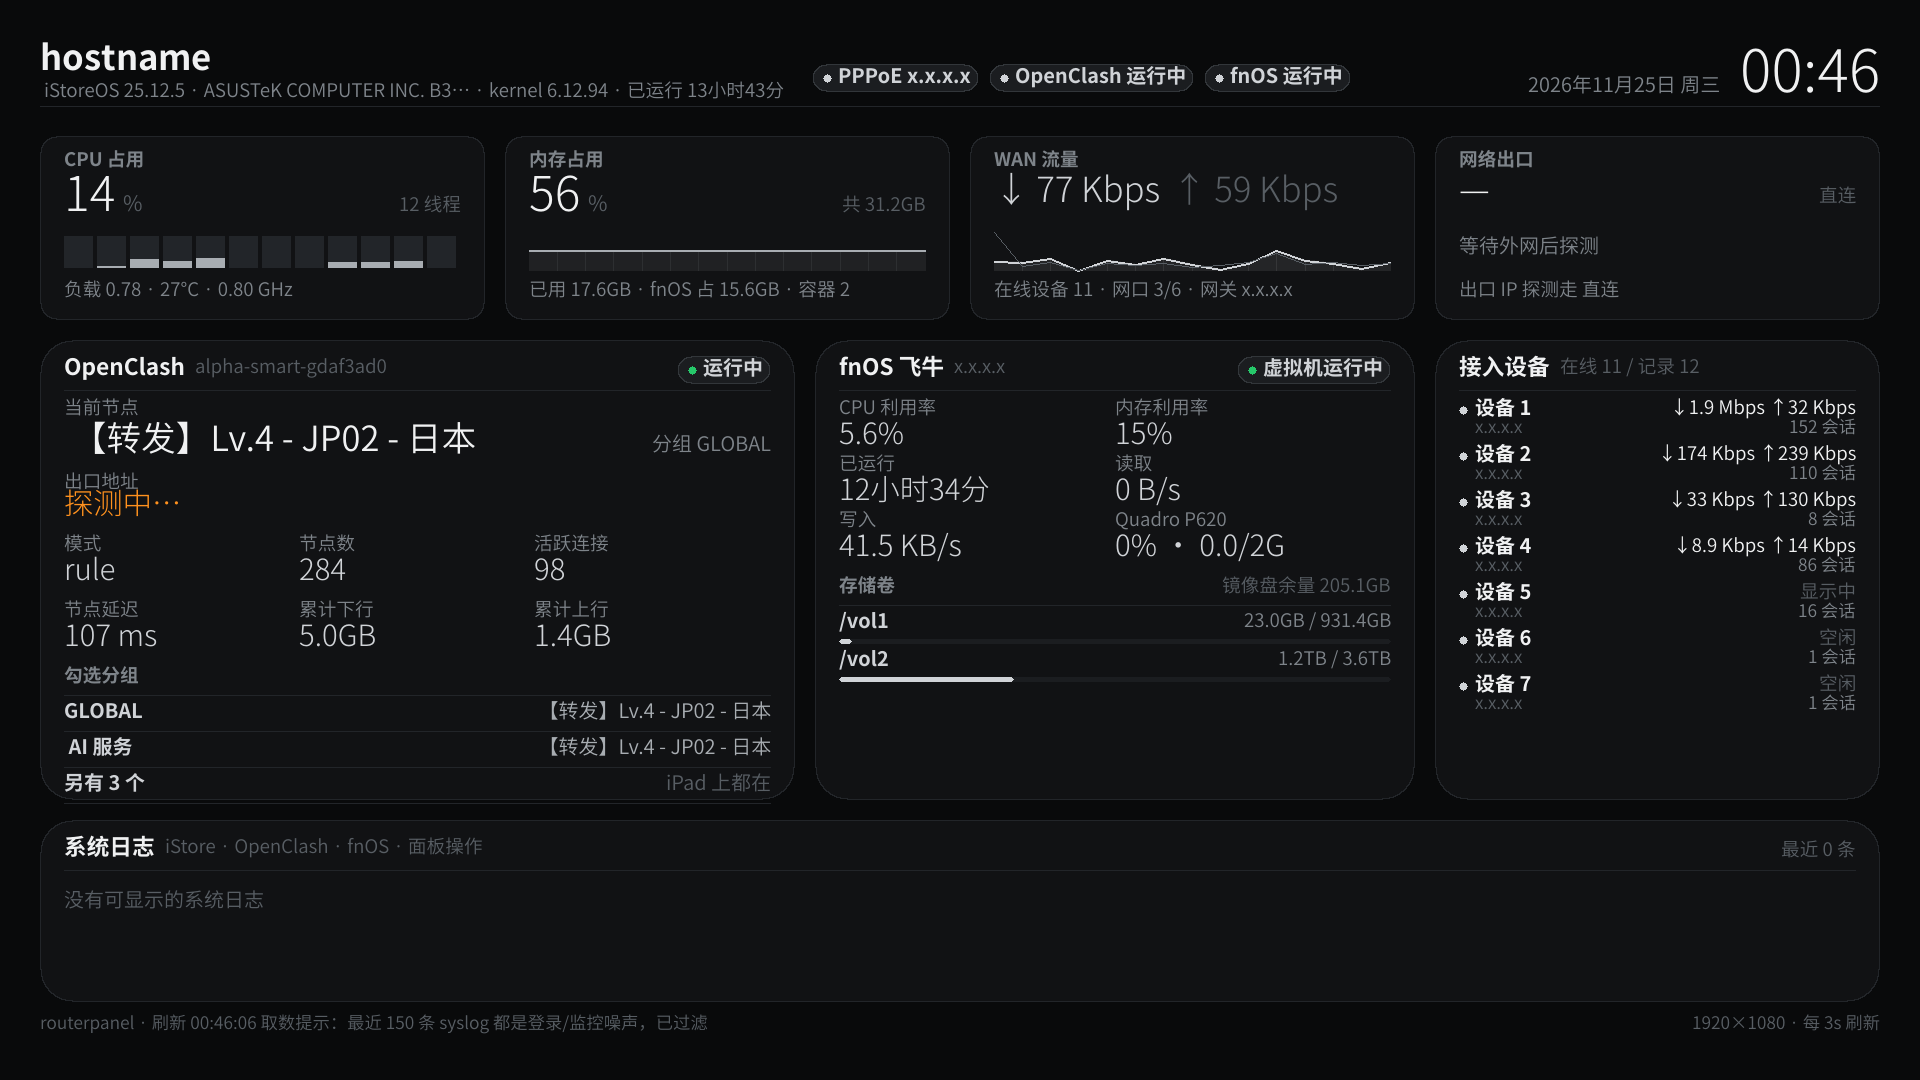
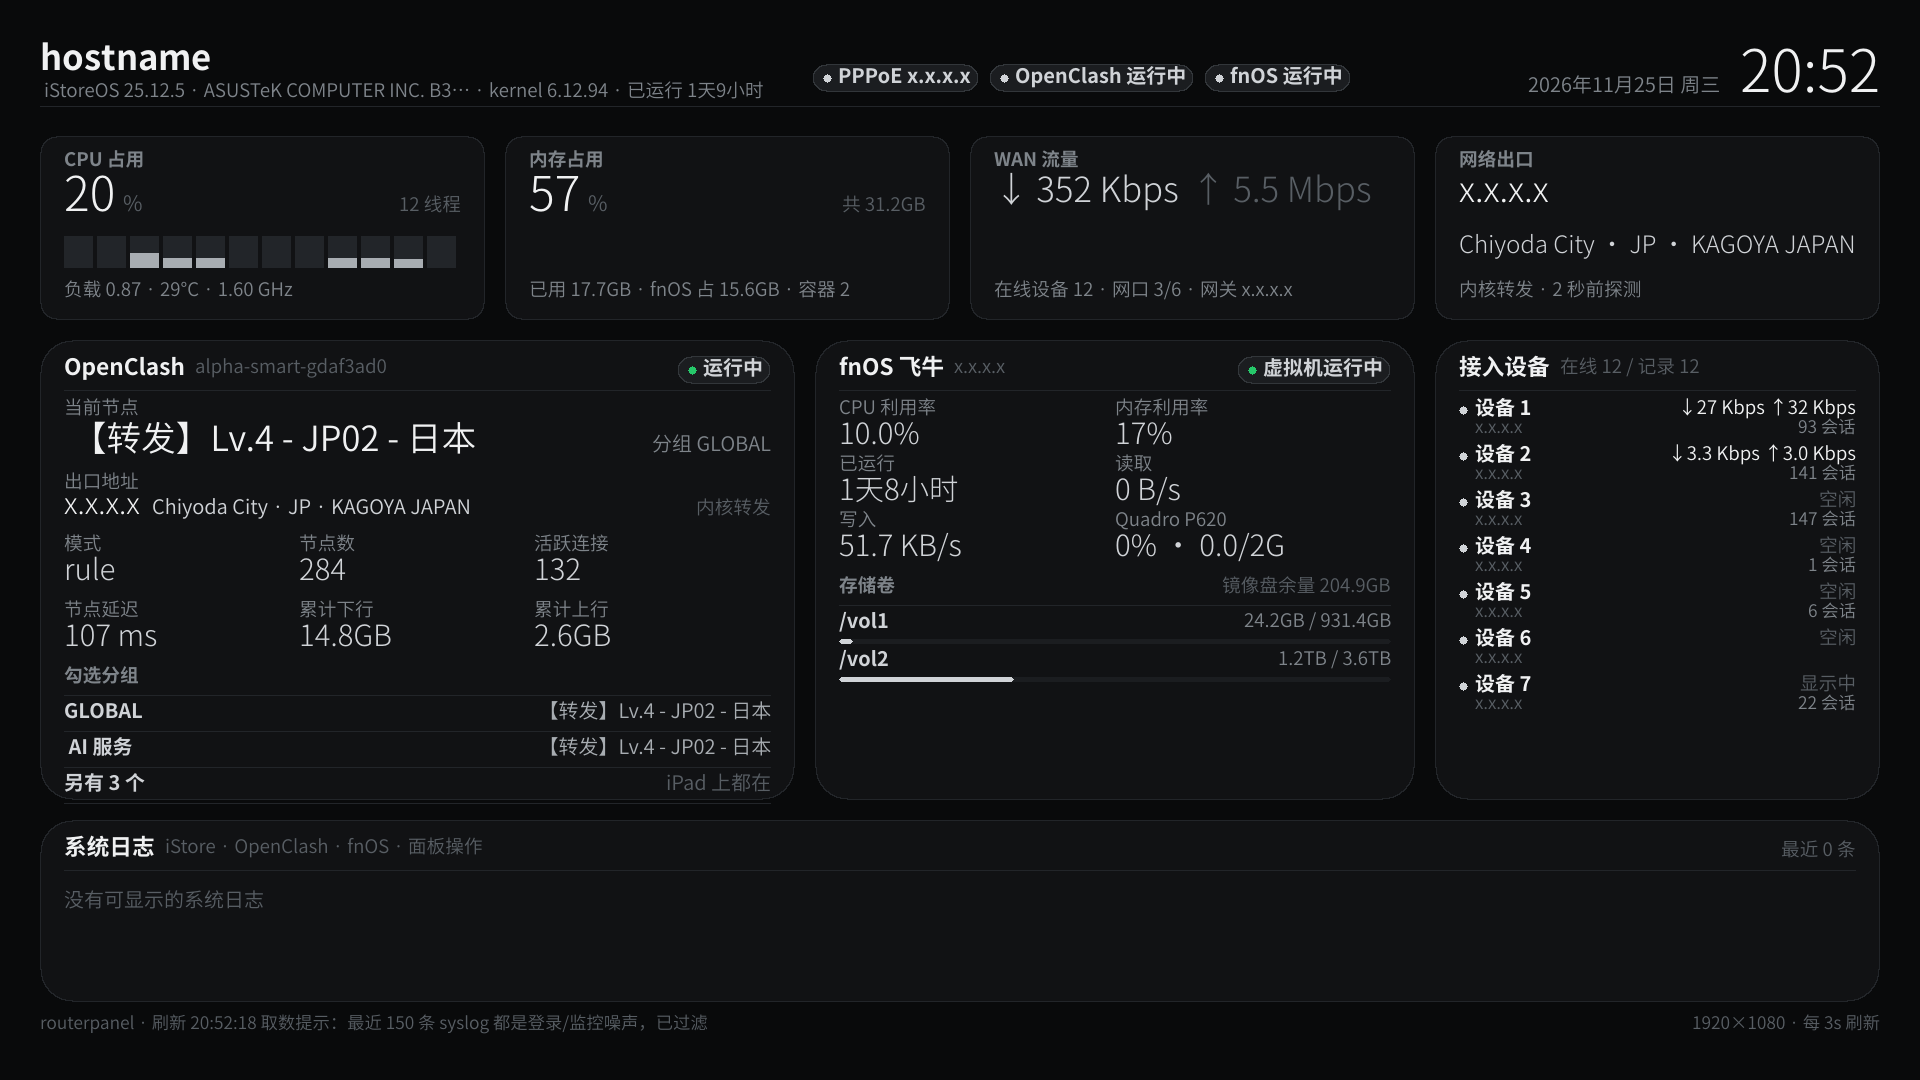
修 -no-fb -png 出图崩溃：字体加载不能只看 -no-fb
出图不占屏的标准跑法是 `-no-fb -png`，但字体只在 `!noFB` 时加载，
于是 Draw 里第一次 measure 就 nil face SIGSEGV，图都出不来。
条件改成"只要这一趟会动笔就起字体"。

顺带：
- shot.sh 从 uci 把启动参数拼回去。手动只带 -png 的话 fnOS/出口全是空开关，
  出图会退化成"未配置"那张卡，看着像 bug 其实是取数条件没给全。
- README 首图换成出口、分组落点、fnOS 内部读数都齐的那一版（仍是 -mask 出图）。

diff --git a/main.go b/main.go
@@ -218,8 +218,11 @@ func main() {
 
 	cv := NewCanvas(W, H)
 	refreshSeconds = *interval
-	if !*noFB {
-		// 纯 HTTP 模式根本不画屏，字体缺了也不该把 iPad 的页面一起拖死
+	// 只要这一趟会真的动笔就得起字体：写帧缓冲要，-png 出一张图也要。
+	// 以前只看 -no-fb，于是 `-no-fb -png`（出图不占屏的标准跑法）字体是 nil，
+	// 顶栏一调 measure 就 SIGSEGV，图都出不来。
+	// 纯 HTTP 模式根本不画屏，字体缺了也不该把 iPad 的页面一起拖死。
+	if !*noFB || *pngOut != "" {
 		if err := cv.loadFonts(*fontL, *fontN, *fontB); err != nil {
 			fmt.Fprintf(os.Stderr, "%v\n", err)
 			os.Exit(1)
